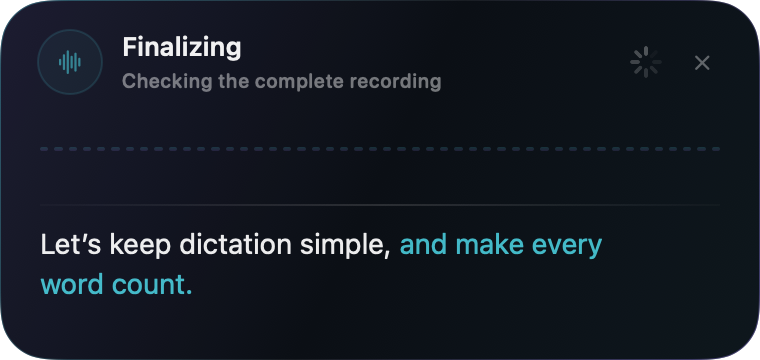
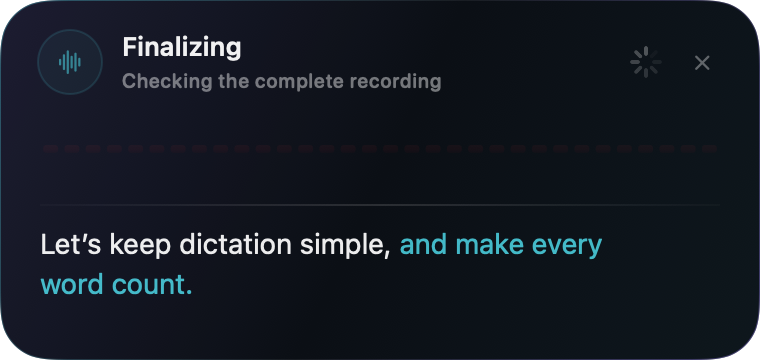
Add lightweight Knight Rider scanner to the microphone waveform

Changed region(s): [[0.0605, 0.3972, 0.9684, 0.4278]]

diff --git a/Sources/Views/Components/FloatingRecorderView.swift b/Sources/Views/Components/FloatingRecorderView.swift
@@ -34,8 +34,7 @@ internal struct FloatingRecorderView: View {
             if let finalText {
                 finalTranscript(finalText)
             } else {
-                VoiceRibbon(levels: levels, active: recording, cyan: cyan, lilac: lilac)
-                    .animation(reduceMotion ? nil : .linear(duration: 0.1), value: waveformSamples)
+                VoiceRibbon(levels: levels, active: recording)
                     .frame(height: 37)
                     .padding(.horizontal, 20)
                     .padding(.top, 9)
@@ -161,24 +160,72 @@ internal enum AudioLevelDisplay {
     }
 }
 
-private struct VoiceRibbon: View {
+internal struct VoiceRibbon: View {
     let levels: [Double]
     let active: Bool
-    let cyan: Color
-    let lilac: Color
+    @Environment(\.accessibilityReduceMotion) private var reduceMotion
+
     var body: some View {
-        GeometryReader { geometry in
-            HStack(alignment: .center, spacing: 3) {
-                ForEach(levels.indices, id: \.self) { index in
-                    let level = active ? levels[index] : 0
-                    Capsule()
-                        .fill(LinearGradient(colors: [cyan.opacity(0.9), lilac.opacity(0.8)], startPoint: .top, endPoint: .bottom))
-                        .frame(width: max(2, (geometry.size.width - CGFloat(levels.count - 1) * 3) / CGFloat(levels.count)), height: max(2, CGFloat(pow(level, 1.5)) * geometry.size.height))
-                        .opacity(0.18 + level * 0.82)
+        Group {
+            if active && !reduceMotion {
+                // Redraw only this small canvas. No particles, blur passes, or
+                // perpetual work once recording stops. Audio still meters at 10 Hz.
+                TimelineView(.animation(minimumInterval: 1.0 / 24.0)) { timeline in
+                    scanner(at: timeline.date.timeIntervalSinceReferenceDate)
                 }
+            } else {
+                scanner(at: nil)
             }
-            .frame(height: geometry.size.height)
         }
         .accessibilityElement(children: .ignore).accessibilityLabel("Microphone waveform")
+    }
+
+    private func scanner(at time: TimeInterval?) -> some View {
+        Canvas { context, size in
+            let count = 32
+            let pitch = size.width / Double(count)
+            let phase = (time ?? 0) * (2 * Double.pi / 3.2)
+            let head = time == nil ? 0.5 : 0.5 + 0.46 * sin(phase)
+            let direction = cos(phase) >= 0 ? 1.0 : -1.0
+            let voice = active ? (levels.suffix(6).max() ?? 0) : 0
+            let red = Color(red: 1, green: 0.08, blue: 0.12)
+            let lamp = Gradient(colors: [
+                Color(red: 1, green: 0.30, blue: 0.25), red, Color(red: 0.60, green: 0.015, blue: 0.08)
+            ])
+
+            // A gradient supplies the halo without an offscreen blur texture.
+            if active {
+                let center = CGPoint(x: head * size.width, y: size.height / 2)
+                context.fill(Path(ellipseIn: CGRect(x: center.x - 55, y: center.y - 18, width: 110, height: 36)),
+                    with: .radialGradient(Gradient(colors: [red.opacity(0.11 + voice * 0.10), .clear]),
+                        center: center, startRadius: 0, endRadius: 55))
+            }
+
+            for index in 0..<count {
+                let position = (Double(index) + 0.5) / Double(count)
+                let distance = abs(position - head)
+                let behind = (head - position) * direction >= 0
+                let core = exp(-pow(distance * 21, 2))
+                let trail = exp(-distance * (behind ? 14 : 48))
+                let scanner = active ? min(1, core * 0.8 + trail * 0.4) : 0
+                let sampleIndex = min(levels.count - 1, index * levels.count / count)
+                let level = active && sampleIndex >= 0 ? levels[sampleIndex] : 0
+                // Height is driven only by captured voice levels; the scanner is light.
+                let height = 4 + pow(level, 1.4) * (size.height - 10)
+                let rect = CGRect(x: Double(index) * pitch + 1.6, y: (size.height - height) / 2,
+                                  width: max(1, pitch - 3.2), height: height)
+                let shape = Path(roundedRect: rect, cornerRadius: 1.5)
+                var segment = context
+                segment.opacity = active ? min(0.96, 0.10 + scanner * (0.61 + voice * 0.24) + level * 0.12) : 0.05
+                segment.fill(shape, with: .linearGradient(lamp,
+                    startPoint: CGPoint(x: rect.midX, y: rect.minY), endPoint: CGPoint(x: rect.midX, y: rect.maxY)))
+                if scanner > 0.3 {
+                    let filament = CGRect(x: rect.minX + 1, y: rect.midY - 0.7,
+                                          width: max(1, rect.width - 2), height: 1.4)
+                    context.fill(Path(roundedRect: filament, cornerRadius: 0.7),
+                        with: .color(Color(red: 1, green: 0.72, blue: 0.56).opacity(scanner * (0.35 + voice * 0.5))))
+                }
+            }
+        }
     }
 }

diff --git a/Sources/Utilities/VersionInfo.swift b/Sources/Utilities/VersionInfo.swift
@@ -1,7 +1,7 @@
 import Foundation
 
 struct VersionInfo {
-    static let version = Bundle.main.object(forInfoDictionaryKey: "CFBundleShortVersionString") as? String ?? "210.9"
+    static let version = Bundle.main.object(forInfoDictionaryKey: "CFBundleShortVersionString") as? String ?? "210.10"
     static let gitHash = Bundle.main.object(forInfoDictionaryKey: "AudioWhisperGitRevision") as? String ?? "dev-build"
     static let buildDate = Bundle.main.object(forInfoDictionaryKey: "AudioWhisperBuildDate") as? String ?? ""
     

diff --git a/docs/STREAMING.md b/docs/STREAMING.md
@@ -16,11 +16,13 @@ Each recording has a session UUID and ordered packet sequence. Late packets and 
 
 ## Presentation
 
-A 380 × 180 point live display shows the last two lines of draft text and a waveform built from 48 actual microphone-level readings at the recorder's existing 10 Hz metering rate. In streaming-off mode the display is 380 × 112. No synthetic waveform activity is generated during silence. The display stays geometrically centered as its size changes.
+A 380 × 180 point live display shows the last two lines of draft text and a waveform built from 48 actual microphone-level readings at the recorder's existing 10 Hz metering rate. In streaming-off mode the display is 380 × 112. The Knight Rider–inspired red scanner moves a decorative light across the waveform at 24 fps; bar height still reflects actual microphone levels, including during silence. The effect uses one 340 × 37 point canvas, 32 segments, and gradient light without particle systems or blur passes. Its animation timeline exists only while recording and is omitted with Reduce Motion enabled. The display stays geometrically centered as its size changes.
 
 The final text displays for `clamp(0.65 + words × 0.045, 0.85, 6)` seconds, with a single completion glow/check animation. Its text area is bounded for long transcripts. Starting another recording or dismissing the display cancels its previous dismissal task. No auto-paste or required confirmation key is introduced.
 
 ## Validation on this Mac
+
+The 210.10 scanner was measured in an isolated optimized SwiftUI preview with 10 Hz changing meter fixtures: 0.493 CPU seconds over eight seconds of animation (6.16% of one CPU core), and 0.00443 CPU seconds over four idle seconds (0.11% of one core). This measures the preview process, not the separate WindowServer/GPU or transcription workload. No microphone or model was used for this graphics check.
 
 On two local dictation recordings of about eight seconds each, the former streaming approximation produced badly incorrect text; normal rolling-window decoding recovered the spoken sentences. Median preview computation was 0.128 and 0.099 seconds respectively, with a maximum of 0.276 seconds. These figures exclude capture/buffering time and are not a general accuracy benchmark. The recordings and their transcripts are not included in the repository.
 
@@ -28,4 +30,4 @@ A 45.41-second repeated acceptance fixture produced 57 rolling updates: median c
 
 An opt-in Swift integration test sends partial audio through the actual coordinator and JSON-RPC process, observes words before supplying the complete recording, and verifies that packet-by-packet preview of a short fixture converges exactly to normal full-attention transcription. It also verifies identical final text and the same daemon PID. Other tests cover streaming off, cancellation, old-session isolation, preview failure fallback, settings persistence, and continuous conversion from mono/stereo 44.1/48 kHz audio. Offscreen renders cover listening, finalizing, final copy, and streaming off.
 
-Physical microphone capture alongside the existing recorder was confirmed by the user's live-word report; improved recognition still needs confirmation in live use after the decoder correction.
+The user confirmed that live dictation works correctly after the 210.9 decoder correction.

diff --git a/SPEEDYWHISPER.md b/SPEEDYWHISPER.md
@@ -4,7 +4,7 @@ SpeedyWhisper is the personal Parakeet v2 fork of [AudioWhisper by mazdak and co
 
 ## Recording and manual paste
 
-The recorder appears at the exact center of the screen containing the pointer, without taking keyboard focus. Its cyan-to-violet waveform displays actual recent microphone levels and its timer tracks the recording. Two compact lines show live Parakeet text; draft words are tinted cyan. The listening display is 380 × 180 points with streaming, or 380 × 112 without it.
+The recorder appears at the exact center of the screen containing the pointer, without taking keyboard focus. Its Knight Rider–inspired red scanner sweeps across voice-reactive bars, with a warm core and trailing glow. Bar heights display actual recent microphone levels, and the timer tracks the recording. The scanner draws a single small canvas at 24 fps only while recording; Reduce Motion keeps the light stationary. Two compact lines show live Parakeet text; draft words are tinted cyan. The listening display is 380 × 180 points with streaming, or 380 × 112 without it.
 
 Stopping still runs the established full-recording Parakeet pass. The final text is copied immediately, the view gives a single glow/check confirmation, and then dismisses automatically. Short phrases remain for 0.85 seconds; longer text receives more scan time, up to six seconds. The user presses ⌘V in their chosen application. There is no Paste button, synthetic paste event, or Accessibility setup. Reduce Motion is respected.
 
